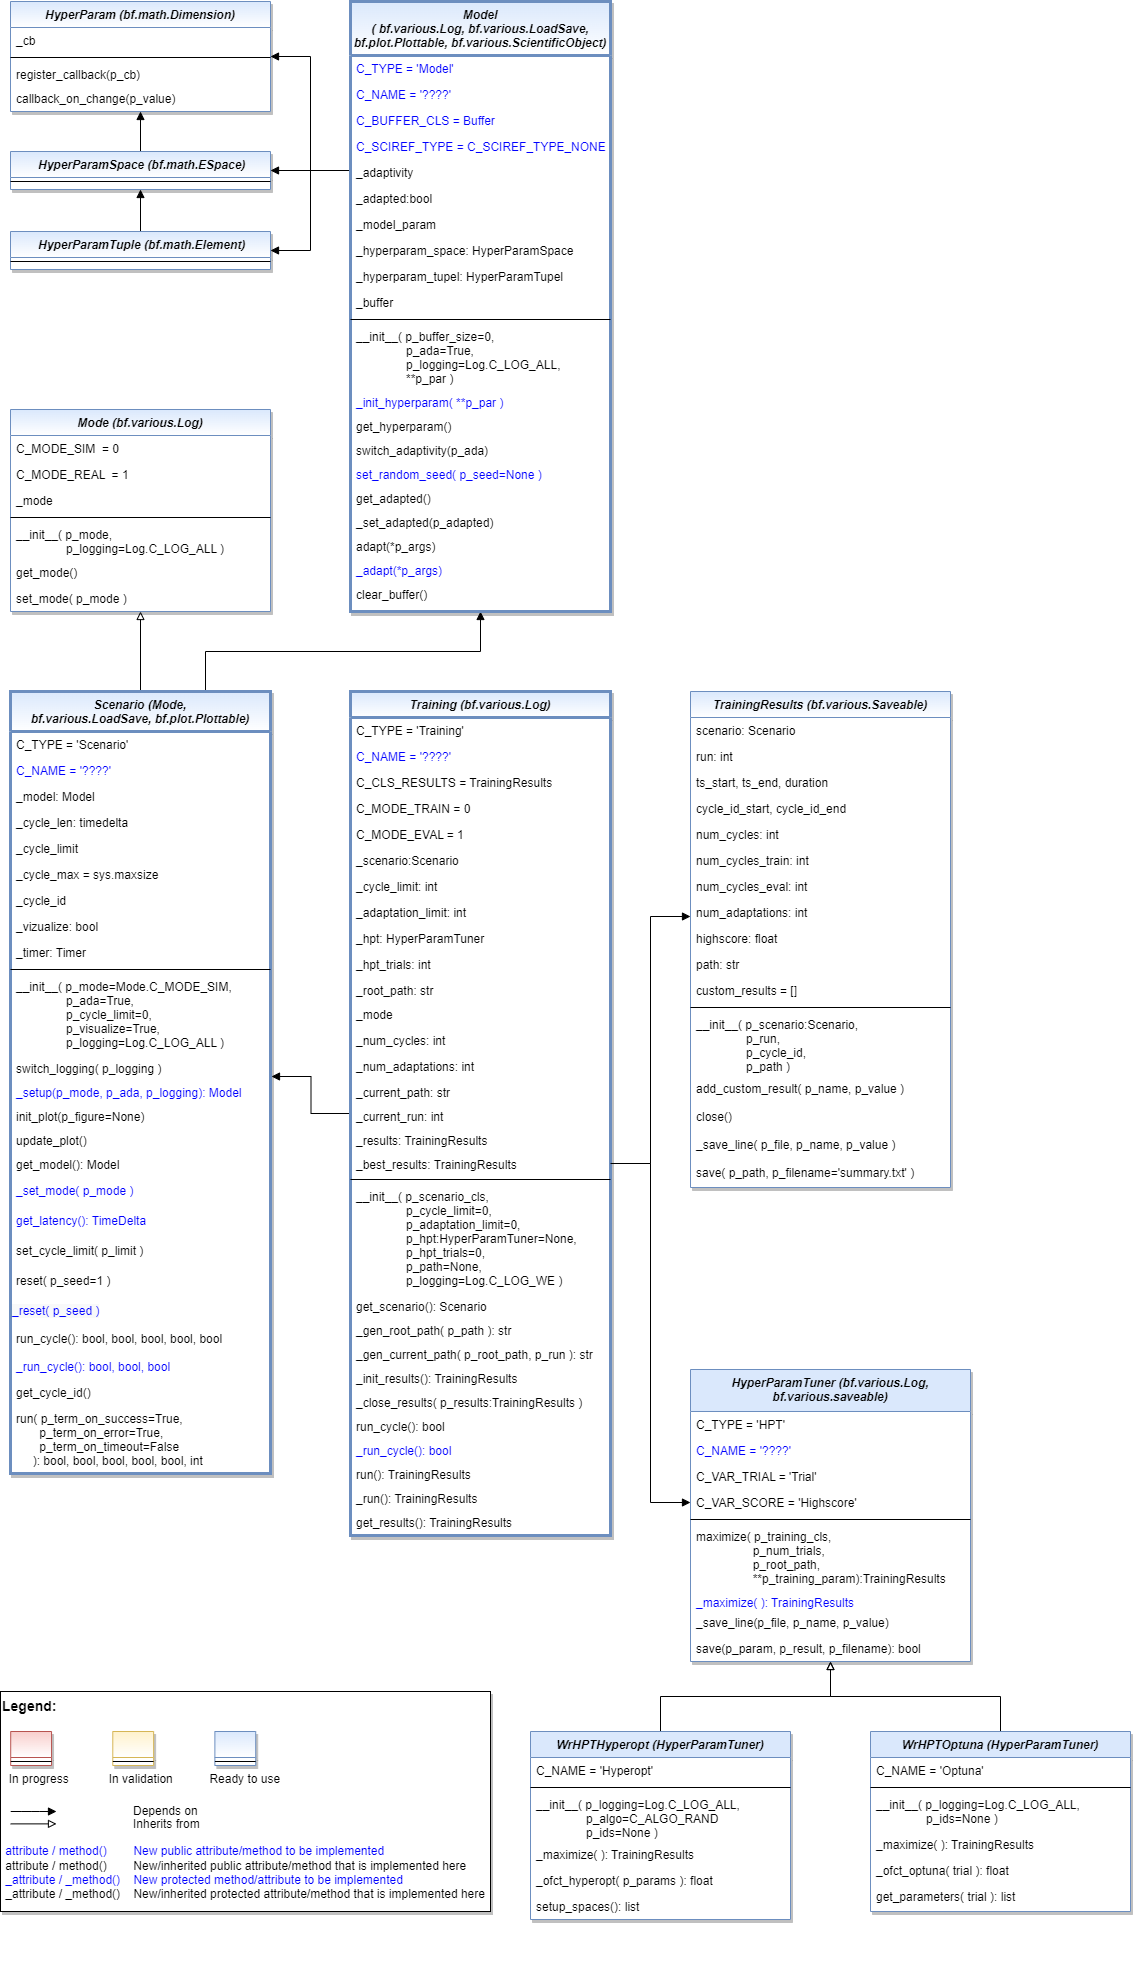
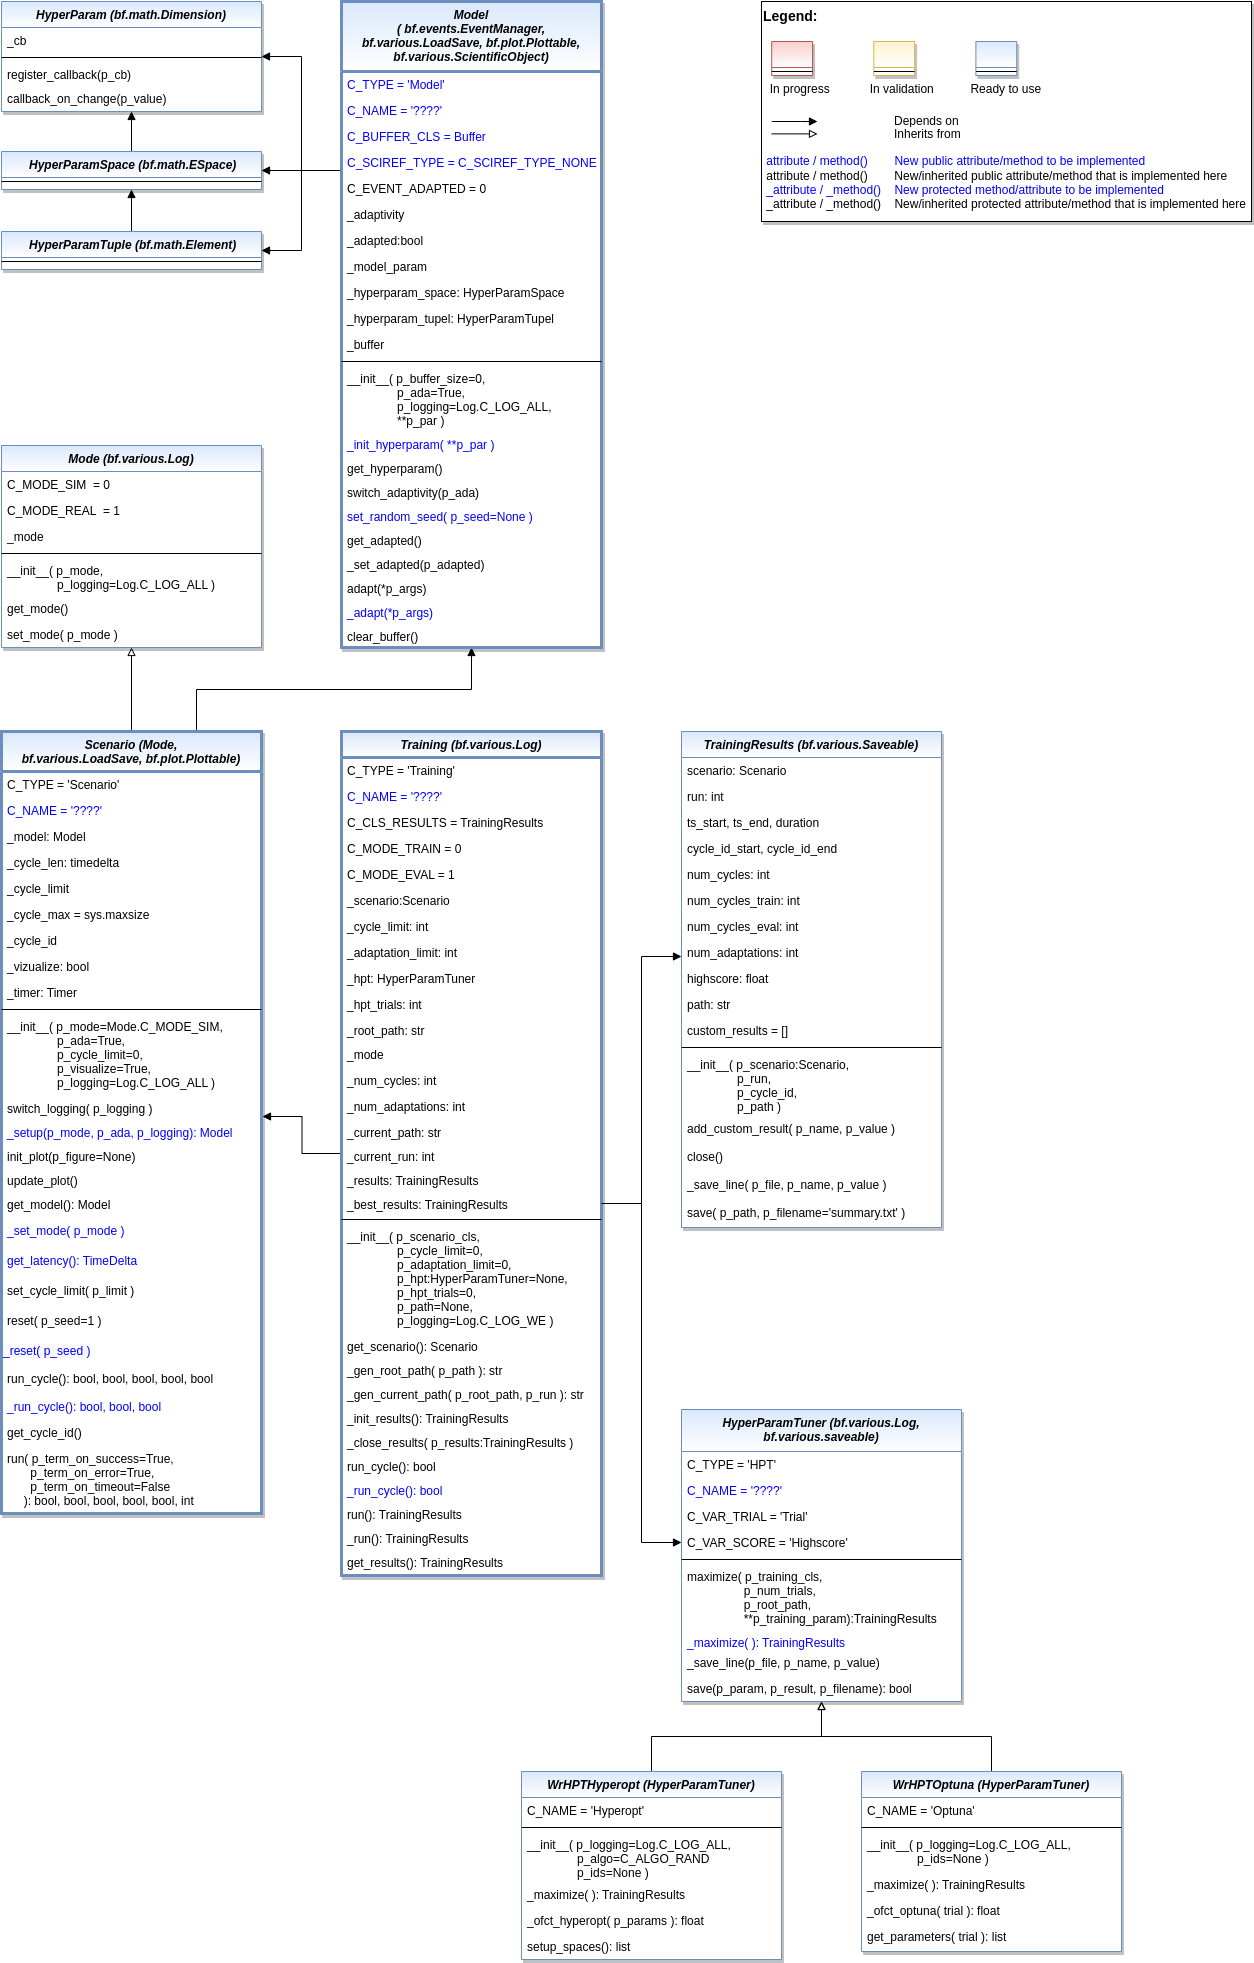
BF.ML.Model: Event Handling

diff --git a/src/mlpro/bf/ml.py b/src/mlpro/bf/ml.py
@@ -37,10 +37,11 @@
 ## -- 2022-03-02  1.3.7     DA       Class HyperParamDispatcher:correction of method set_values()
 ## -- 2022-06-06  1.3.8     MRD      Add additional parameter to Training class, p_env_mode for
 ## --                                setting up environment mode
+## -- 2022-08-22  1.4.0     DA       Class Model: event management added
 ## -------------------------------------------------------------------------------------------------
 
 """
-Ver. 1.3.8 (2022-06-06)
+Ver. 1.4.0 (2022-08-22)
 This module provides fundamental machine learning templates, functionalities and properties.
 """
 
@@ -51,6 +52,7 @@ from mlpro.bf.various import *
 from mlpro.bf.math import *
 from mlpro.bf.data import Buffer
 from mlpro.bf.plot import *
+from mlpro.bf.events import *
 import random
 
 
@@ -156,7 +158,7 @@ class HyperParamDispatcher (HyperParamTuple):
 
 ## -------------------------------------------------------------------------------------------------
 ## -------------------------------------------------------------------------------------------------
-class Model (Log, LoadSave, Plottable, ScientificObject):
+class Model (EventManager, LoadSave, Plottable, ScientificObject):
     """
     Fundamental template class for adaptive ML models. Supports especially
       - Adaptivity
@@ -178,17 +180,19 @@ class Model (Log, LoadSave, Plottable, ScientificObject):
 
     """
 
-    C_TYPE          = 'Model'
-    C_NAME          = '????'
+    C_TYPE              = 'Model'
+    C_NAME              = '????'
 
-    C_BUFFER_CLS    = Buffer       
+    C_EVENT_ADAPTED     = 0
 
-    C_SCIREF_TYPE   = ScientificObject.C_SCIREF_TYPE_NONE     
+    C_BUFFER_CLS        = Buffer       
+
+    C_SCIREF_TYPE       = ScientificObject.C_SCIREF_TYPE_NONE     
 
 ## -------------------------------------------------------------------------------------------------
     def __init__(self, p_buffer_size=0, p_ada=True, p_logging=Log.C_LOG_ALL, **p_par):  
 
-        Log.__init__(self, p_logging=p_logging)
+        EventManager.__init__(self, p_logging=p_logging)
         self._adapted           = False
         self.switch_adaptivity(p_ada)
         self._hyperparam_space  = HyperParamSpace()
@@ -273,6 +277,8 @@ class Model (Log, LoadSave, Plottable, ScientificObject):
         """
 
         self._adapted = p_adapted
+
+        if self._adapted: self._raise_event(self.C_EVENT_ADAPTED, Event(p_raising_object=self))
 
 
 ## -------------------------------------------------------------------------------------------------
